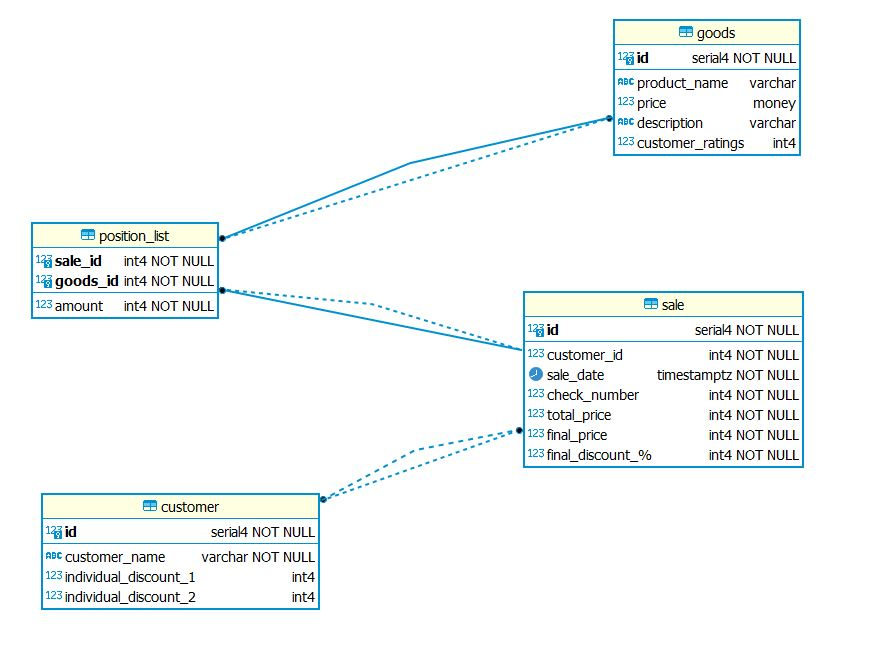
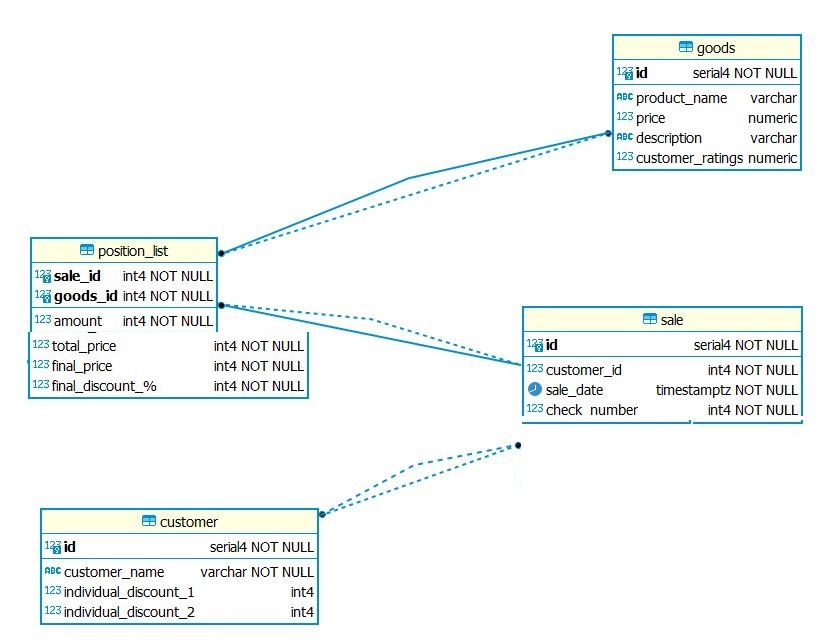
fixed database structure

Changed region(s): [[0.0311, 0.0, 0.9641, 0.9969]]

diff --git a/KTE_labs/Liquibase/main/src/main/java/KTE_labs/liquibase/model/PositionList.java b/KTE_labs/Liquibase/main/src/main/java/KTE_labs/liquibase/model/PositionList.java
@@ -1,0 +1,75 @@
+package KTE_labs.liquibase.model;
+
+import javax.persistence.Column;
+import javax.persistence.Entity;
+import javax.persistence.Table;
+import java.math.BigDecimal;
+
+@Entity
+@Table(name = "positin_list")
+public class PositionList {
+//fk
+    @Column(name = "sale_id")
+    private int saleId;
+//fk
+    @Column(name = "goods_id")
+    private int goodsId;
+
+    @Column(name = "total_price", nullable = false)
+    private BigDecimal totalPrice;
+
+    @Column(name = "final_price", nullable = false)
+    private BigDecimal finalPrice;
+
+    @Column(name = "final_discount_%", nullable = false)
+    private int finalDiscountInPercent;
+
+    public PositionList() {
+    }
+
+    public PositionList(BigDecimal totalPrice, BigDecimal finalPrice, int finalDiscountInPercent) {
+        this.totalPrice = totalPrice;
+        this.finalPrice = finalPrice;
+        this.finalDiscountInPercent = finalDiscountInPercent;
+    }
+
+    public int getSaleId() {
+        return saleId;
+    }
+
+    public void setSaleId(int saleId) {
+        this.saleId = saleId;
+    }
+
+    public int getGoodsId() {
+        return goodsId;
+    }
+
+    public void setGoodsId(int goodsId) {
+        this.goodsId = goodsId;
+    }
+
+    public BigDecimal getTotalPrice() {
+        return totalPrice;
+    }
+
+    public void setTotalPrice(BigDecimal totalPrice) {
+        this.totalPrice = totalPrice;
+    }
+
+    public BigDecimal getFinalPrice() {
+        return finalPrice;
+    }
+
+    public void setFinalPrice(BigDecimal finalPrice) {
+        this.finalPrice = finalPrice;
+    }
+
+    public int getFinalDiscountInPercent() {
+        return finalDiscountInPercent;
+    }
+
+    public void setFinalDiscountInPercent(int finalDiscountInPercent) {
+        this.finalDiscountInPercent = finalDiscountInPercent;
+    }
+}

diff --git a/KTE_labs/Liquibase/main/src/main/java/KTE_labs/liquibase/model/Sale.java b/KTE_labs/Liquibase/main/src/main/java/KTE_labs/liquibase/model/Sale.java
@@ -1,7 +1,6 @@
 package KTE_labs.liquibase.model;
 
 import javax.persistence.*;
-import java.math.BigDecimal;
 import java.time.LocalDateTime;
 
 @Table(name = "sale")
@@ -21,25 +20,14 @@ public class Sale {
     @Column(name = "check_number", nullable = false)
     private int checkNumber;
 
-    @Column(name = "total_price", nullable = false)
-    private BigDecimal totalPrice;
-
-    @Column(name = "final_price", nullable = false)
-    private BigDecimal finalPrice;
-
-    @Column(name = "final_discount_%", nullable = false)
-    private int finalDiscountInPercent;
 
     public Sale() {
     }
 
-    public Sale(int customerId, LocalDateTime date, int checkNumber, BigDecimal totalPrice, BigDecimal finalPrice, int finalDiscountInPercent) {
+    public Sale(int customerId, LocalDateTime date, int checkNumber) {
         this.customerId = customerId;
         this.date = date;
         this.checkNumber = checkNumber;
-        this.totalPrice = totalPrice;
-        this.finalPrice = finalPrice;
-        this.finalDiscountInPercent = finalDiscountInPercent;
     }
 
     public int getId() {
@@ -74,27 +62,4 @@ public class Sale {
         this.checkNumber = checkNumber;
     }
 
-    public BigDecimal getTotalPrice() {
-        return totalPrice;
-    }
-
-    public void setTotalPrice(BigDecimal totalPrice) {
-        this.totalPrice = totalPrice;
-    }
-
-    public BigDecimal getFinalPrice() {
-        return finalPrice;
-    }
-
-    public void setFinalPrice(BigDecimal finalPrice) {
-        this.finalPrice = finalPrice;
-    }
-
-    public int getFinalDiscountInPercent() {
-        return finalDiscountInPercent;
-    }
-
-    public void setFinalDiscountInPercent(int finalDiscountInPercent) {
-        this.finalDiscountInPercent = finalDiscountInPercent;
-    }
 }
